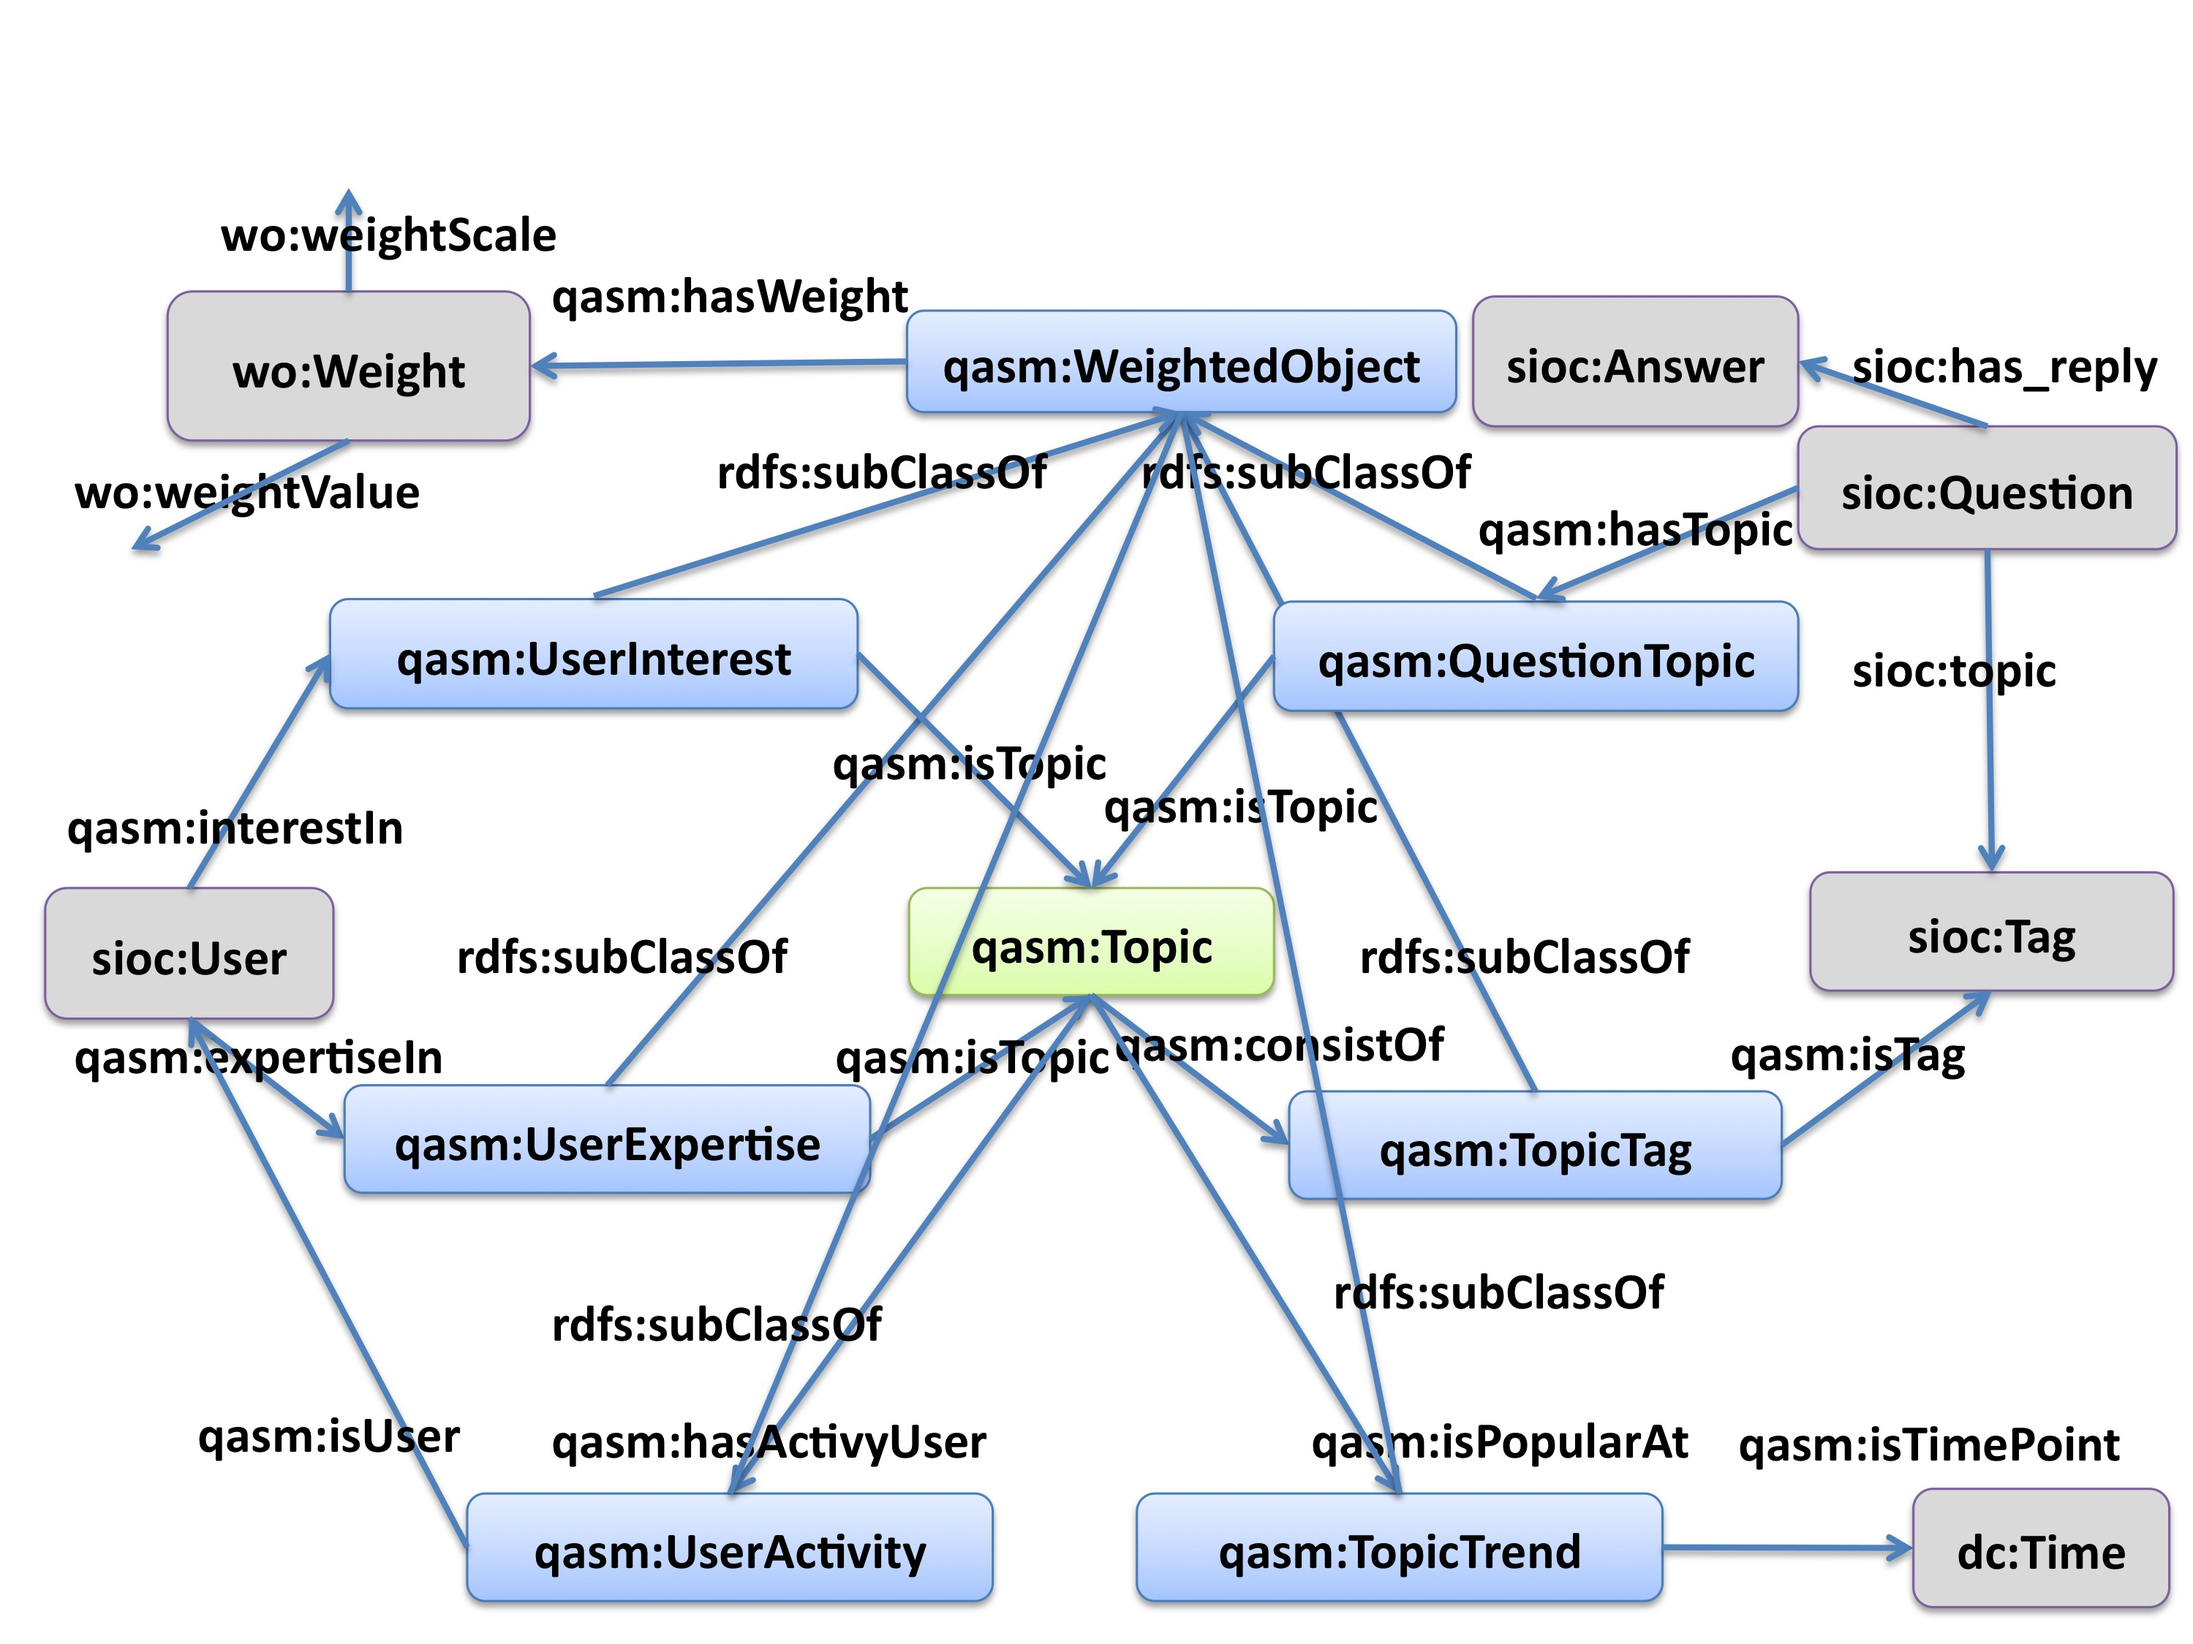
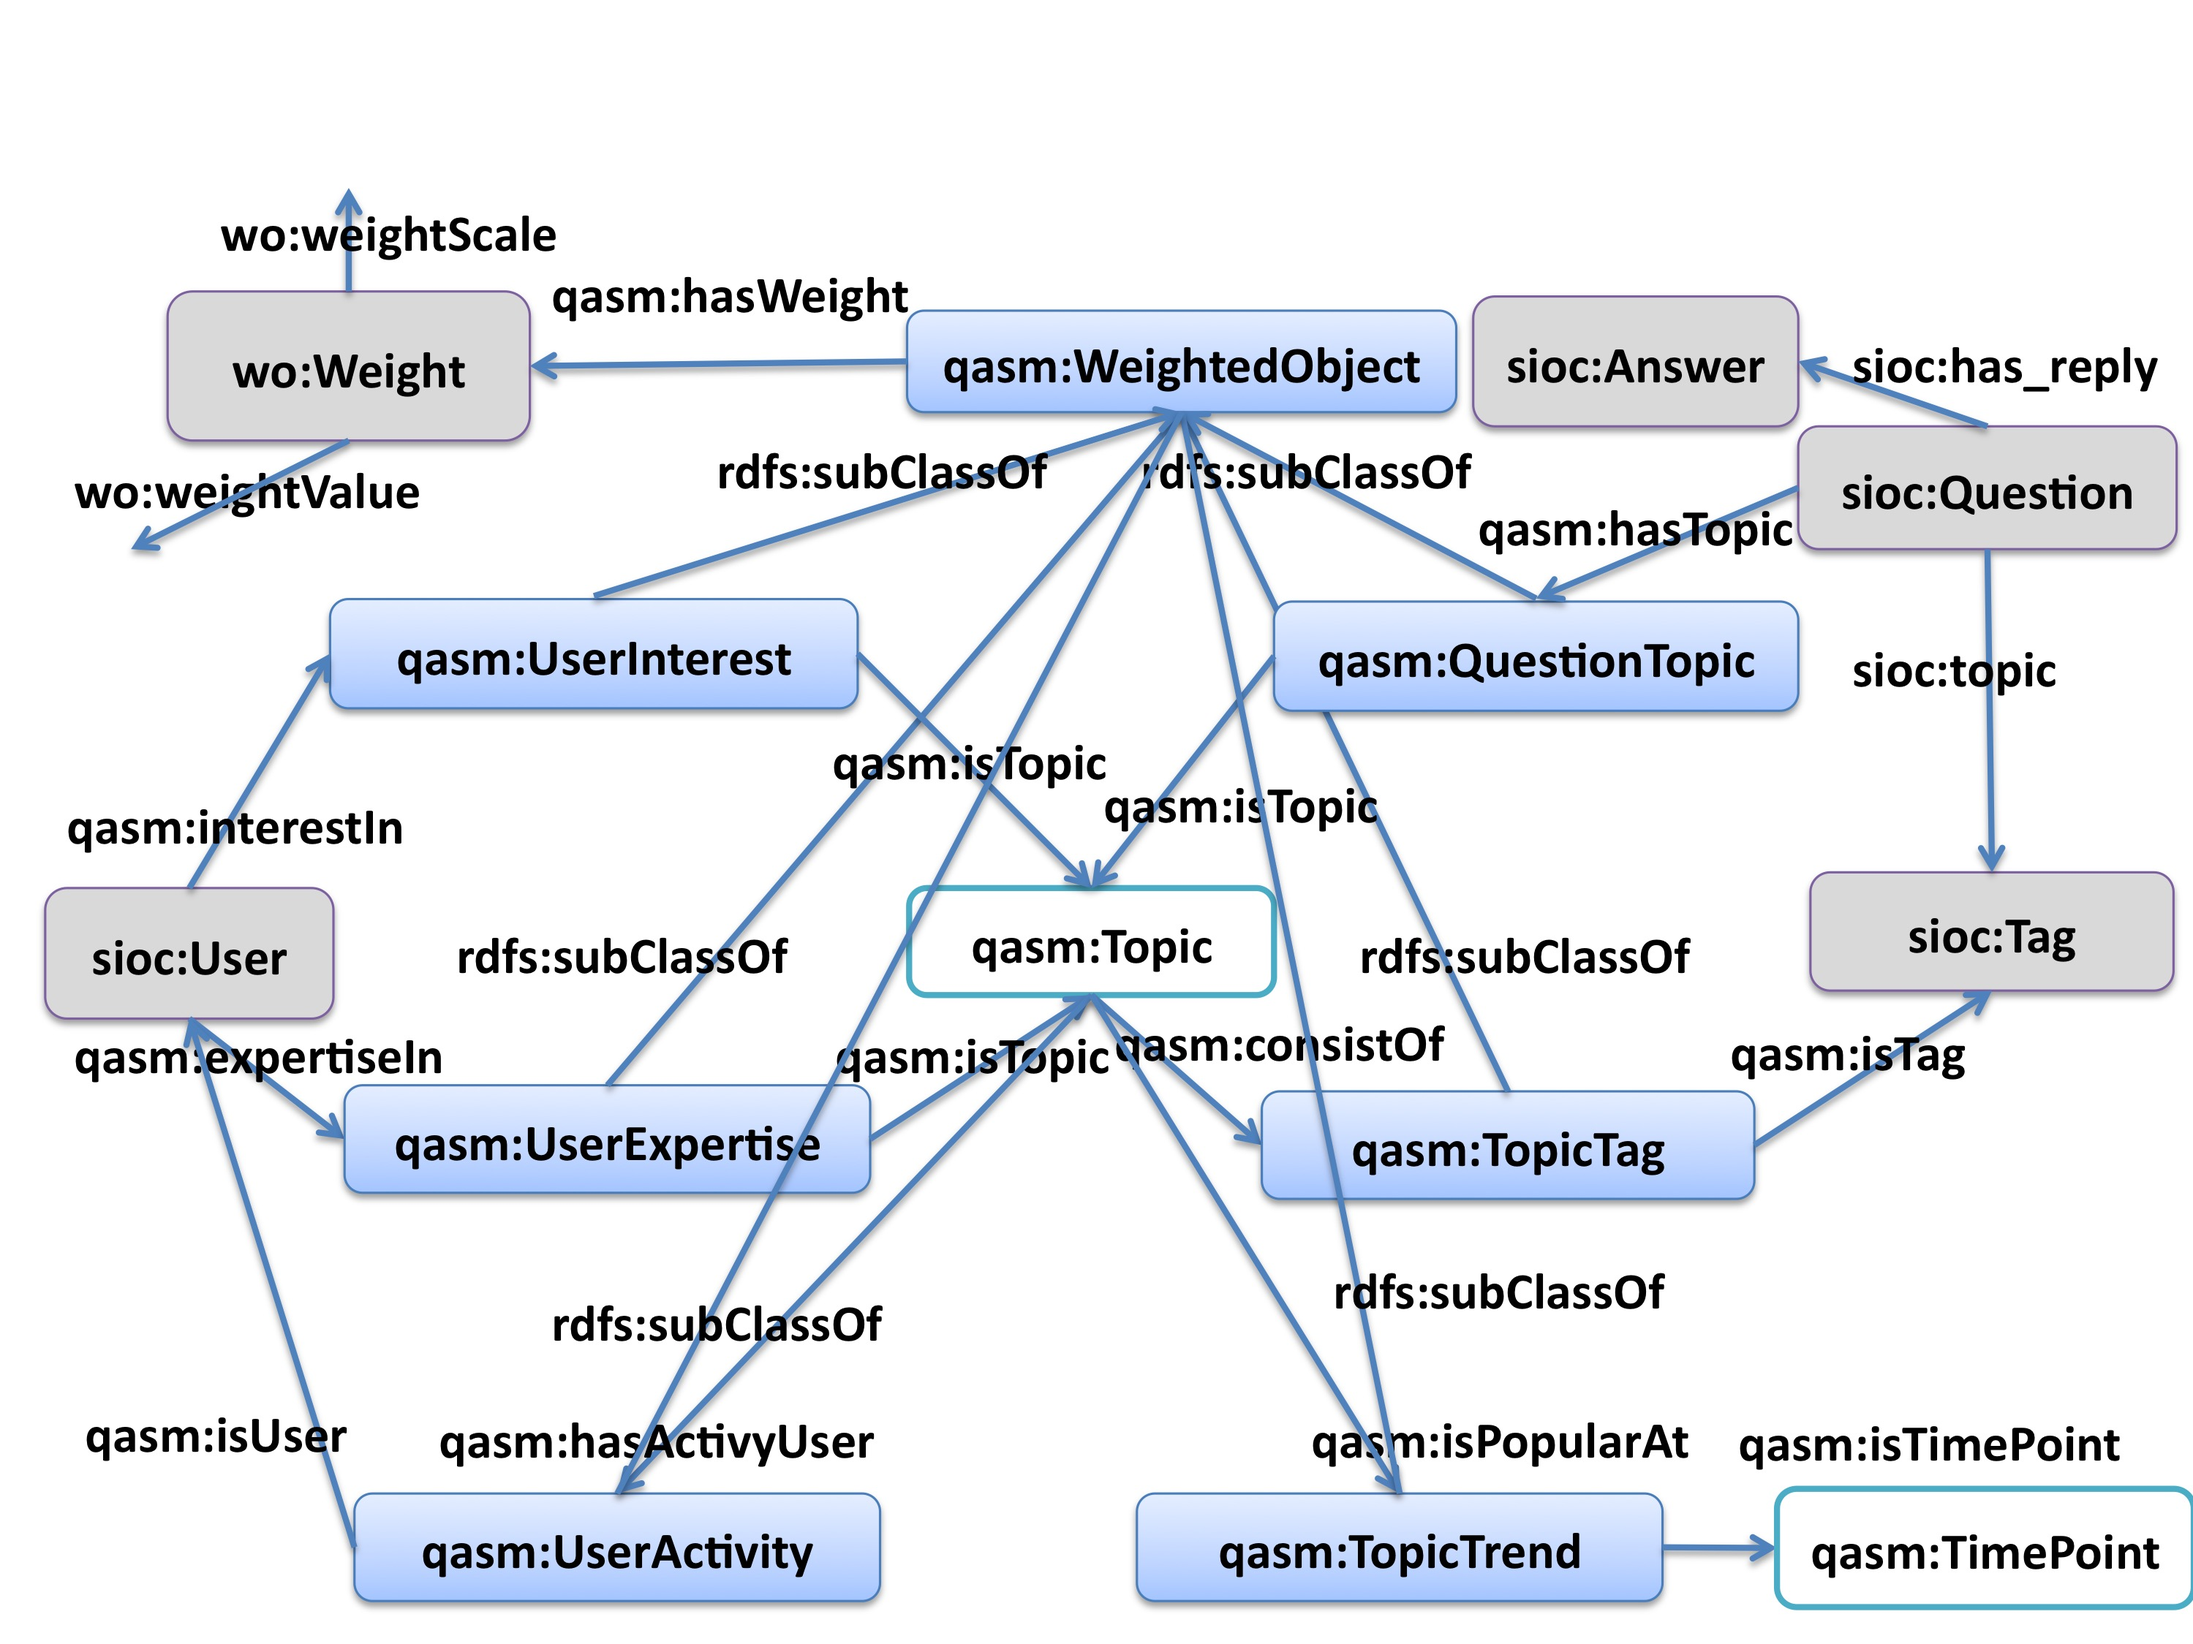
update chap 3

diff --git a/Chapter3.tex b/Chapter3.tex
@@ -53,7 +53,8 @@ The QASM vocabulary\footnote{It is available online at http://ns.inria.fr/qasm/q
     Answer  & answer post & explicit & sioc:Answer \\ \hline
     Tag & tags used to label questions & explicit & sioc:Tag \\ \hline
     Word & words used in Q\&A content & explicit & qasm:Word \\ \hline
-    Topic & bag of words/tags & implicit & QASM:Topic \\ \hline     
+    TimePoint & year/month/day & explicit & QASM:TimePoint \\ \hline
+    Topic & bag of words/tags & implicit & QASM:Topic \\ \hline   
     UserInterest& User interest over topic distribution & implicit& qasm:UserInterest\\ \hline
     UserExpertise & User expertise over topic distribution &implicit& qasm:UserExpertise \\ \hline
     TopicTag &Topic over tags distribution&implicit &qasm:TopicTag \\ \hline
@@ -93,7 +94,7 @@ The QASM vocabulary\footnote{It is available online at http://ns.inria.fr/qasm/q
     qasm:hasWeight   & a topic word object associate with a weight &qasm:TopicTag &wo:Weight \\ \hline
     
     qasm:isPopularAt  & a topic is popular at a time point & qasm:Topic &  qasm:TopicYearTrend \\ \hline
-    qasm:isYear     & a topic trend object associate with a time point &qasm:TopicYearTrend  &qasm:Year \\ \hline
+    qasm:isTimePoint & a topic trend object associate with a time point &qasm:TopicYearTrend  &qasm:TimePoint \\ \hline
     qasm:hasWeight   & a topic trend object associate with a weight&qasm:TopicYearTrend  &wo:Weight \\ \hline
     
     qasm:hasActiveUser & a topic has an active user & qasm:Topic &  qasm:UserActivity \\ \hline
